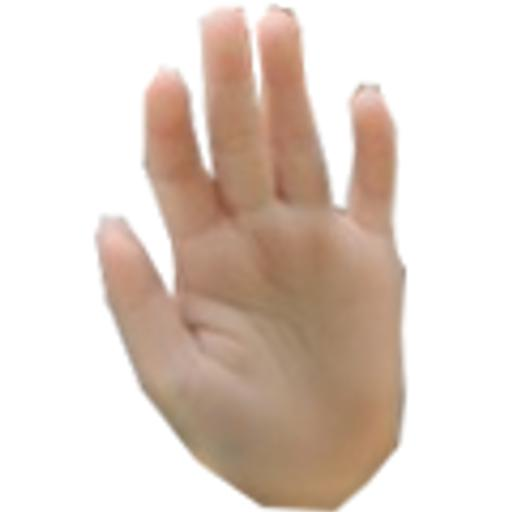
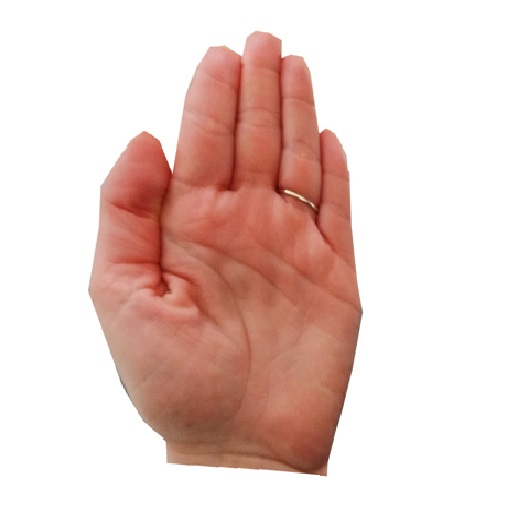
hand material extended

diff --git a/src/main.py b/src/main.py
@@ -24,20 +24,20 @@ np.set_printoptions(linewidth=512)
 
 
 # main settings
-KIND = "face"
+KIND = "hand"
 S = 5 # parameter "scales" to generete Haar-like features
 P = 5 # parameter "positions" to generete Haar-like features
-AUG = False # data augmentation (0 -> none or 1 -> present)
-KOP = 0 # "kilos of positives " - no. of thousands of positives (positive windows) to generate (in case of synthetic data only; 0 value for real data, meaning 'not applicable')
-NPI = 100 # "negatives per image" - no. of negatives (negative windows) to sample per image (image real or generated synthetically) 
+AUG = True # data augmentation (0 -> none or 1 -> present)
+KOP = 5 # "kilos of positives " - no. of thousands of positives (positive windows) to generate (in case of synthetic data only; 0 value for real data, meaning 'not applicable')
+NPI = 10 # "negatives per image" - no. of negatives (negative windows) to sample per image (image real or generated synthetically) 
 T = 1024 # size of ensemble in FastRealBoostBins (equivalently, no. of boosting rounds when fitting)
 B = 8 # no. of bins
 SEED = 0 # randomization seed
 DEMO_HAAR_FEATURES = False
-REGENERATE_DATA = False
-FIT_OR_REFIT_MODEL = False
-MEASURE_ACCS_OF_MODEL = False
-DEMO_DETECT_IN_VIDEO = True
+REGENERATE_DATA = True
+FIT_OR_REFIT_MODEL = True
+MEASURE_ACCS_OF_MODEL = True
+DEMO_DETECT_IN_VIDEO = False
 
 # cv2 camera settings
 CV2_VIDEO_CAPTURE_CAMERA_INDEX = 0
@@ -45,11 +45,11 @@ CV2_VIDEO_CAPTURE_IS_IT_MSWINDOWS = False
 
 # detection procedure settings
 DETECTION_SCALES = 10
-DETECTION_WINDOW_HEIGHT_MIN = 64
-DETECTION_WINDOW_WIDTH_MIN = 64
+DETECTION_WINDOW_HEIGHT_MIN = 96
+DETECTION_WINDOW_WIDTH_MIN = 96
 DETECTION_WINDOW_GROWTH = 1.2
 DETECTION_WINDOW_JUMP = 0.05
-DETECTION_THRESHOLD = 6.5
+DETECTION_THRESHOLD = 5.0
 DETECTION_POSTPROCESS = "avg" # possible values: None, "nms", "avg"
 
 # folders
@@ -343,7 +343,8 @@ def synthetic_data(folder_backgrounds, folder_targets, hcoords, n, data_augmenta
     augmentations_extras = []
     if data_augmentation: 
         augmentations += ["sharpen", "blur", "random_brightness", "random_channel_shift"]
-        augmentations_extras += ["random_window_distort", "random_horizontal_flip"]
+        #augmentations_extras += ["random_window_distort", "random_horizontal_flip"]
+        augmentations_extras += ["random_window_distort"]
     imshow_title = "SYNTHETIC IMAGE [press ESC to continue]"
     m = n_poss    
     aug_str = " (with data augmentation)" if data_augmentation else ""
@@ -355,8 +356,6 @@ def synthetic_data(folder_backgrounds, folder_targets, hcoords, n, data_augmenta
         t_fname = folder_targets + t_names[np.random.randint(n_t)]
         t = cv2.imread(t_fname)                
         print(f"[{index + 1}/{m}: background: {b_fname}, target: {t_fname}{aug_str}]")
-        if index == 3256:
-            print("HERE")
         for aug in augmentations:
             b = np.copy(b_original)
             if verbose:
@@ -380,6 +379,9 @@ def synthetic_data(folder_backgrounds, folder_targets, hcoords, n, data_augmenta
                 angle_deg = 0.0
             ts = rotate_bound(ts, np.random.uniform(-angle_deg, angle_deg))
             hr, wr = ts.shape[:2]
+            h = (h + hr) // 2
+            w = (w + hr) // 2
+            c = np.array([h, w]) / 2.0
             ts[ts == 0] = 255        
             ts = cv2.medianBlur(ts, 3)
             cr = np.array([hr, wr]) / 2.0
@@ -1041,7 +1043,7 @@ if __name__ == "__main__":
     
     if REGENERATE_DATA:
         if KIND == "face":
-            X_train, y_train, X_test, y_test = fddb_data(FOLDER_RAW_DATA_FDDB, hcoords, n, AUG, NPI, seed=SEED, verbose=True)
+            X_train, y_train, X_test, y_test = fddb_data(FOLDER_RAW_DATA_FDDB, hcoords, n, AUG, NPI, seed=SEED, verbose=False)
         elif KIND == "hand":
             X_train, y_train, X_test, y_test = synthetic_data(FOLDER_RAW_DATA_HAND + "backgrounds/", FOLDER_RAW_DATA_HAND + "targets/", hcoords, n, AUG, KOP * 1000, NPI, seed=SEED, verbose=False)
         pickle_objects(FOLDER_DATA + DATA_NAME, [X_train, y_train, X_test, y_test])
@@ -1070,33 +1072,27 @@ if __name__ == "__main__":
     
     
     
-if __name__ == "__roc__":        
+if __name__ == "__rocs__":        
     print("ROCS...")
     
-    clfs_settings = [#{"S": 5, "P": 5, "NPI": 50, "AUG": 0, "SEED": 0, "T": 512, "B": 8},
-                     #{"S": 5, "P": 5, "NPI": 50, "AUG": 0, "SEED": 0, "T": 1024, "B": 8},
-                     {"S": 5, "P": 5, "NPI": 100, "AUG": 0, "SEED": 0, "T": 1024, "B": 8},
-                     #{"S": 5, "P": 5, "NPI": 100, "AUG": 0, "SEED": 0, "T": 2048, "B": 8},
-                     {"S": 5, "P": 5, "NPI": 200, "AUG": 0, "SEED": 0, "T": 1024, "B": 8}
+    clfs_settings = [{"S": 5, "P": 5, "AUG": 1, "KOP": 5, "NPI": 10, "SEED": 0, "T": 1024, "B": 8},
+                     {"S": 5, "P": 5, "AUG": 1, "KOP": 5, "NPI": 20, "SEED": 0, "T": 1024, "B": 8}
                      ]
     
     for s in clfs_settings:
         S = s["S"]
         P = s["P"]
-        NPI = s["NPI"]
         AUG = s["AUG"]
+        KOP = s["KOP"]
+        NPI = s["NPI"]        
         SEED = s["SEED"]
         T = s["T"]
         B = s["B"] 
         n = HAAR_TEMPLATES.shape[0] * S**2 * (2 * P - 1)**2    
         hinds = haar_indexes(S, P)
         hcoords = haar_coords(S, P, hinds)            
-        data_suffix = f"{KIND}_n_{n}_S_{S}_P_{P}_NPI_{NPI}_AUG_{AUG}_SEED_{SEED}" 
-        #DATA_NAME = f"data_{data_suffix}.bin"
-        #DATA_NAME = "data_face_n_18225_S_5_P_5_NPI_10_AUG_1_SEED_0.bin"
-        #DATA_NAME = "data_face_n_18225_S_5_P_5_NPI_50_AUG_0_SEED_0.bin"
-        #DATA_NAME = "data_face_n_18225_S_5_P_5_NPI_100_AUG_0_SEED_0.bin"                                     
-        DATA_NAME = "data_face_n_18225_S_5_P_5_NPI_200_AUG_0_SEED_0.bin"
+        data_suffix = f"{KIND}_n_{n}_S_{S}_P_{P}_AUG_{AUG}_KOP_{KOP}_NPI_{NPI}_SEED_{SEED}"                                      
+        DATA_NAME = "data_hand_n_18225_S_5_P_5_AUG_1_KOP_5_NPI_10_SEED_0.bin"
         [X_train, y_train, X_test, y_test] = unpickle_objects(FOLDER_DATA + DATA_NAME)        
         CLF_NAME = f"clf_frbb_{data_suffix}_T_{T}_B_{B}.bin"            
         print("---")

diff --git a/src/frbb.py b/src/frbb.py
@@ -563,37 +563,6 @@ class FastRealBoostBins(BaseEstimator, ClassifierMixin):
             stride >>= 1
         if tx == 0:
             responses[i] = shared_logits[0]
-            
-    @staticmethod
-    @cuda.jit(void(int16[:, :], int16[:], int16[:], float32[:, :], float32[:]))
-    def decision_function_numba_cuda_job2(X_selected, mins_selected, maxes_selected, logits, responses):
-        shared_logits = cuda.shared.array(4096, dtype=float32) # 4096 - assumed limit of features used at detection stage           
-        i = cuda.blockIdx.x
-        tpb = cuda.blockDim.x
-        tx = cuda.threadIdx.x
-        T, B = logits.shape
-        fpt = int((T + tpb - 1) / tpb) # features per thread to be translated onto appropriate logits and stored in shared memory (summed if fpt > 1)
-        t = tx # feature index
-        shared_logits[tx] = float32(0.0)
-        cuda.syncthreads()
-        for _ in range(fpt):
-            if t < 1:
-                b = int8((X_selected[i, t] - mins_selected[t]) / float32(maxes_selected[t] - mins_selected[t]) * B)
-                if b < 0:
-                    b = 0
-                elif b >= B:
-                    b = b - 1
-                shared_logits[tx] += logits[t, b]
-            t += tpb
-        cuda.syncthreads()
-        stride = tpb >> 1 # half of tpb
-        while stride > 0: # sum-reduction pattern
-            if tx < stride:
-                shared_logits[tx] += shared_logits[tx + stride]
-            cuda.syncthreads()
-            stride >>= 1
-        if tx == 0:
-            responses[i] = shared_logits[0]            
-    
+                
     def predict(self, X):
         return self.class_labels_[1 * (self.decision_function(X) > 0.0)]
